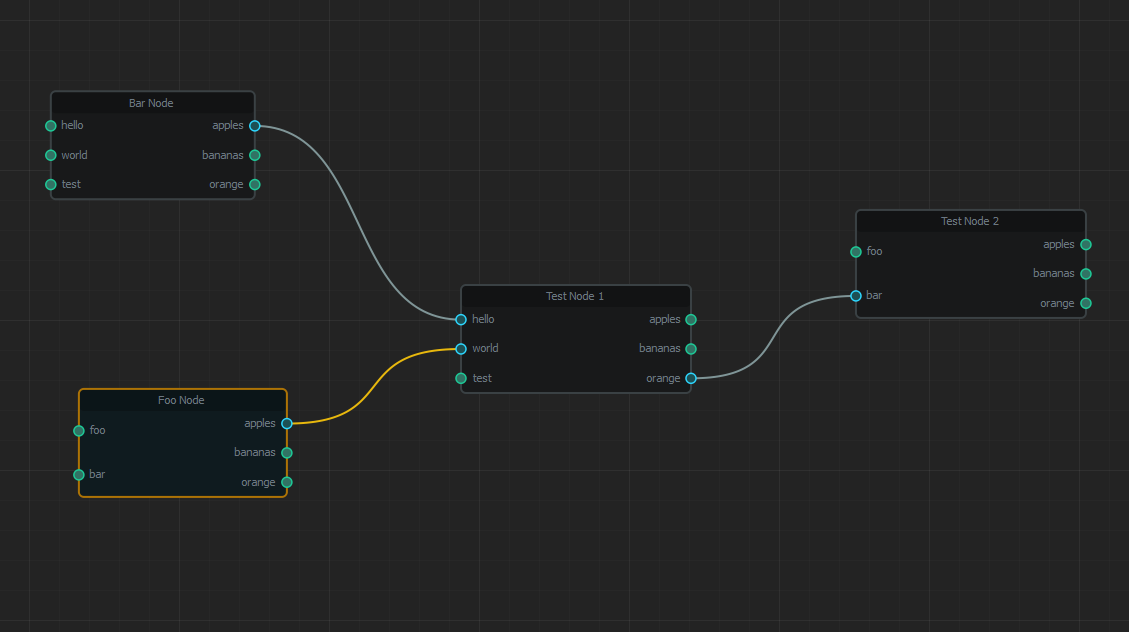
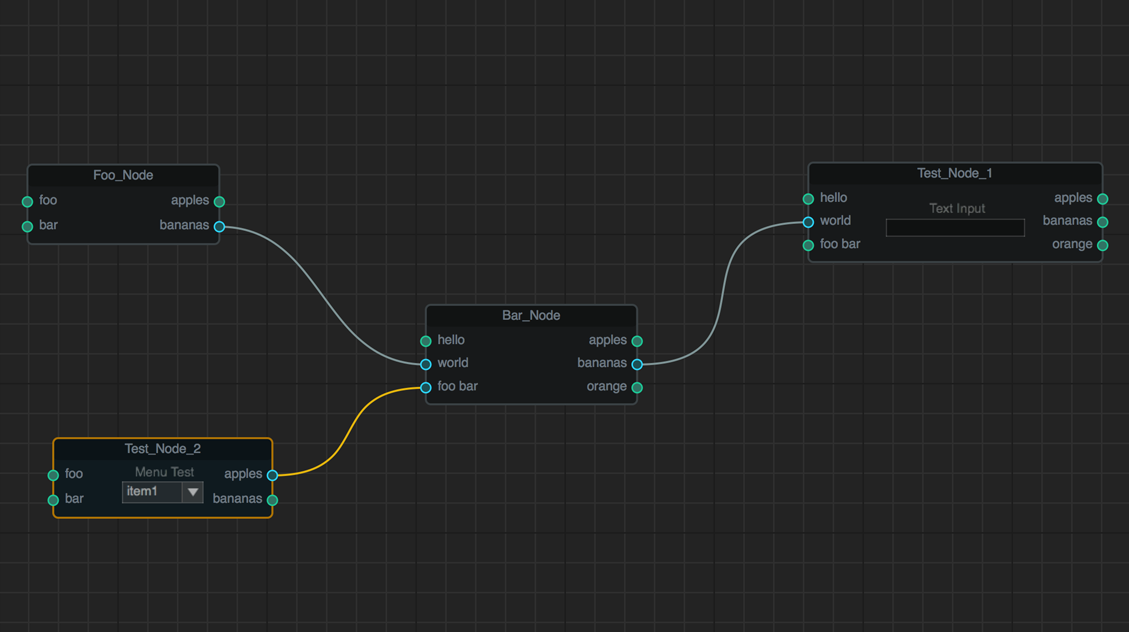
updated screencap and tweaks

diff --git a/BlueprintNodeGraph/widgets.py b/BlueprintNodeGraph/widgets.py
@@ -110,7 +110,7 @@ class _NodeGroubBox(QtGui.QGroupBox):
 
 class _BaseNodeWidget(QtGui.QGraphicsProxyWidget):
     """
-    Custom base node widget.
+    Base Node Widget.
     """
 
     def __init__(self, parent=None, name='widget', label=''):
@@ -146,15 +146,15 @@ class _BaseNodeWidget(QtGui.QGraphicsProxyWidget):
 
 class ComboNodeWidget(_BaseNodeWidget):
     """
-    Custom ComboBox node widget.
+    ComboBox Node Widget.
     """
 
     def __init__(self, parent=None, name='', label='', items=None):
         super(ComboNodeWidget, self).__init__(parent, name, label)
         self.setZValue(Z_VAL_KNOB + 1)
         self._combo = QtGui.QComboBox()
-        self._combo.setMinimumHeight(24)
         self._combo.setStyleSheet(_STYLE_QCOMBOBOX)
+        self._combo.setMinimumHeight(24)
         list_view = QtGui.QListView(self._combo)
         list_view.setStyleSheet(_STYLE_QLISTVIEW)
         self._combo.setView(list_view)
@@ -164,11 +164,11 @@ class ComboNodeWidget(_BaseNodeWidget):
         self.add_items(items)
 
     @property
-    def item(self):
-        return str(self.widget().currentItemText())
+    def value(self):
+        return str(self._combo.currentText())
 
-    @item.setter
-    def item(self, item):
+    @value.setter
+    def value(self, item):
         index = self._combo.findText(QtCore.Qt.MatchExactly)
         self._combo.setCurrentIndex(index)
 
@@ -193,7 +193,7 @@ class ComboNodeWidget(_BaseNodeWidget):
 
 class LineEditNodeWidget(_BaseNodeWidget):
     """
-    Custom LineEdit node widget.
+    LineEdit Node Widget.
     """
 
     def __init__(self, parent=None, name='', label='', text=''):
@@ -206,11 +206,11 @@ class LineEditNodeWidget(_BaseNodeWidget):
         self.text = text
 
     @property
-    def text(self):
+    def value(self):
         return str(self._ledit.text())
 
-    @text.setter
-    def text(self, text=''):
+    @value.setter
+    def value(self, text=''):
         self._ledit.setText(text)
 
     def set_completer(self, completer):

diff --git a/BlueprintNodeGraph/node.py b/BlueprintNodeGraph/node.py
@@ -490,22 +490,22 @@ class NodeItem(QtGui.QGraphicsItem):
         widget = LineEditNodeWidget(self, name, label, text)
         self._widgets.append(widget)
 
-    def get_property_names(self, defaults=True):
+    def all_data(self, show_default=True):
         names = []
-        if defaults:
+        if show_default:
             names += NODE_DATA.keys()
         names += self._data_index.keys()
         return sorted(names)
 
-    def get_property_data(self, name):
+    def get_data(self, name):
         index = NODE_DATA.get(name)
         if not index:
             index = self._data_index.get(name)
         if not index:
-            return
+            return None
         return self.data(index)
 
-    def set_property_data(self, name, data):
+    def set_data(self, name, data):
         if not NODE_DATA.get(name):
             index = max(self._data_index.values() + NODE_DATA.values()) + 1
             self._data_index[name] = index

diff --git a/example.py b/example.py
@@ -60,10 +60,10 @@ if __name__ == '__main__':
     node_2 = BarNode('Bar Node')
 
     node_3 = BarNode('Test Node 1')
-    node_3.add_text_input('Text Input', 'Text Foo')
+    node_3.add_text_input('input_1', 'Text Input')
 
     node_4 = FooNode('Test Node 2')
-    node_4.add_dropdown_menu('Combo Test', items=['foo', 'bar', 'test'])
+    node_4.add_dropdown_menu('menu_1', 'Menu Test', items=['item1', 'item2', 'item3'])
 
     # add nodes into the scene.
     node_graph.add_node(node_1)
